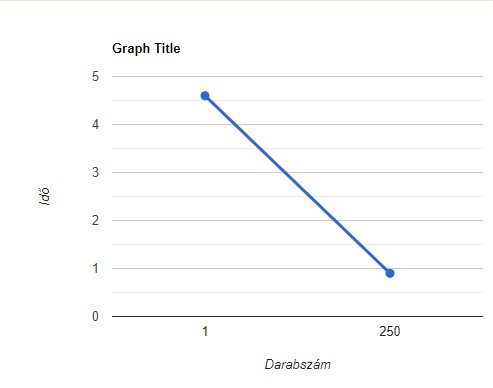
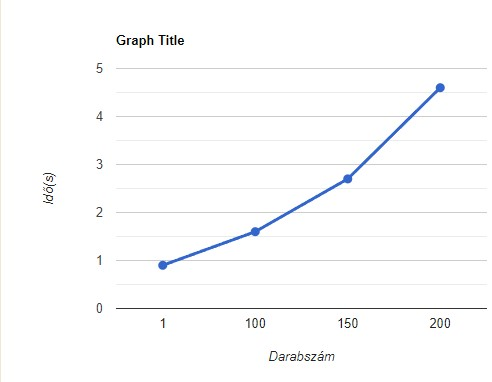
asd

diff --git a/negyedik/index.html b/negyedik/index.html
@@ -47,7 +47,7 @@
                     <tr>
                         <td>MAC</td>
                         <td>c8:09:a8:e2:32:36</td>
-                        <td>00:00:00:00:00:00</td>
+                        <td>08-6a-c5-51-6c-7e</td>
                     </tr>
                     <tr>
                       <td>IP</td>
@@ -57,7 +57,7 @@
                     <tr>
                       <td>MAC</td>
                       <td>00:16:c8:96:ce:bf</td>  
-                      <td>00:00:00:00:00:00</td>  
+                      <td>28-11-a8-3d-29-8f</td>  
                     </tr>
                     <tr>
                       <td>IP</td>
@@ -67,7 +67,7 @@
                     <tr>
                       <td>MAC</td>
                       <td>32:51:b3:3c:29:48</td>
-                      <td>00:00:00:00:00:00</td>
+                      <td>a0-a8-cd-4c-ee-b0</td>
                     </tr>
                   </table>
                 <h2>B) A fizikai cím és az IP cím szerepe a hálózati kommunikációban</h2>

diff --git a/elso/index.html b/elso/index.html
@@ -76,7 +76,21 @@
 
             <div class="feladatb">
                 <h2>B)</h2>
-                <h3>Minnél több fájl van annál lassab hiába 300mb mind a két esetben </h3>
+                <h3>Minnél több fájl van annál lassab a másolás</h3>
+            </div>
+            
+        </div>
+        
+        <div class="feladat">
+            <h1>4.5</h1>
+            <div class="feladata">    
+                <h2>A)</h2>
+                <img src="./assets/copy2.jpg" alt="">
+            </div>
+
+            <div class="feladatb">
+                <h2>B)</h2>
+                <h3>Minnél több fájl van annál lassab a másolás</h3>
             </div>
             
         </div>

diff --git a/hatodik/hatodik.html b/hatodik/hatodik.html
@@ -13,7 +13,7 @@
 		<h2>A)</h2>
 		<h3></h3>
 		<h2>B)</h2>
-		<h3>ipconfig /renew</h3>
+		<h3>netsh interface ipv4 set address name="interfész neve static" ipcím subnetmask getaway</h3>
 		<h1>4.2</h1>
 		<h1>A)</h1>
 		<h3>Megjeleníti és módosítja a bejegyzéseket a helyi IP-útválasztási táblázatban.</h30>
